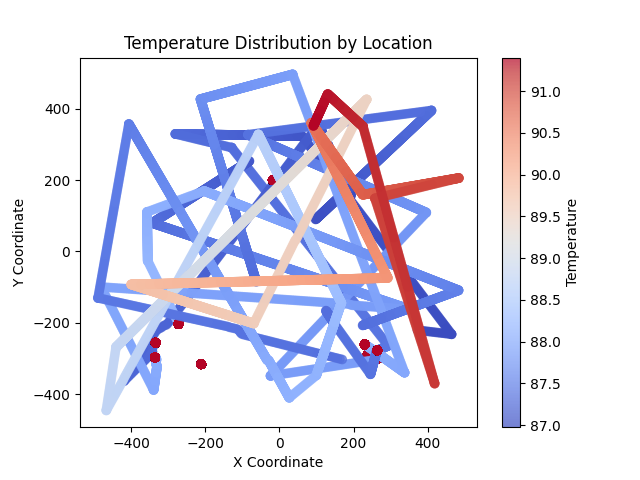
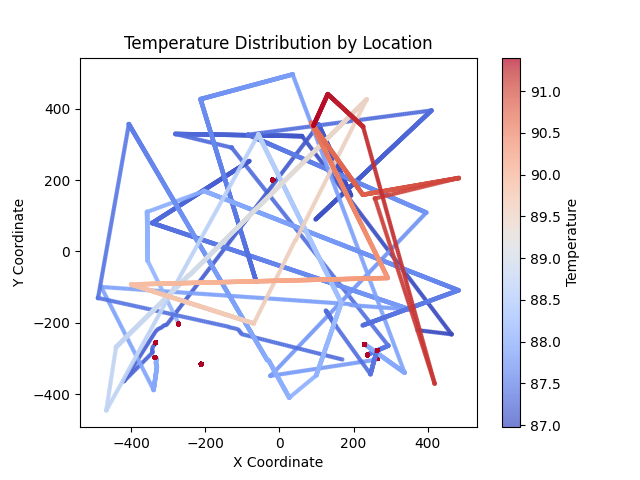
more changes

Changed region(s): [[0.125, 0.125, 0.7188, 0.875], [0.3125, 0.75, 0.3438, 0.7812]]

diff --git a/lab5/analyze_logs.py b/lab5/analyze_logs.py
@@ -3,7 +3,7 @@
 import numpy as np
 import pandas as pd
 import matplotlib.pyplot as plt
-import seaborn as sns
+from scipy.spatial import cKDTree
 
 INPUT_CSV_FILEPATH = "logs_output.csv"
 VISUALS_DIR = "./visualizations/"
@@ -20,10 +20,10 @@ if __name__ == "__main__":
 
     # Select only the zebras
     zebra_mask = df_logs["animal_id"].str.contains("Zebra")
-    df_logs = df_logs[zebra_mask]
+    df_logs_zebra = df_logs[zebra_mask]
 
     # Group the data by animal_id
-    groups = df_logs.groupby("animal_id")
+    groups_zebra = df_logs_zebra.groupby("animal_id")
 
     # Initialize an empty DataFrame to store combined data
     combined_df = pd.DataFrame()
@@ -32,7 +32,7 @@ if __name__ == "__main__":
     ##########################################################################################################################################################################
     # CDF plot
     ##########################################################################################################################################################################
-    for name, group in groups:
+    for name, group in groups_zebra:
 
         # Sort by timestamp
         group = group.sort_values("timestamp", ascending=True)
@@ -74,7 +74,7 @@ if __name__ == "__main__":
     ax = fig.add_subplot(111, projection="3d")
 
     # Plot the longitude, latitude, and timestamp coordinates for each animal_id
-    for name, group in groups:
+    for name, group in groups_zebra:
         ax.scatter(group["longitude"], group["latitude"], group["timestamp"], label=name)
 
     # Add axis labels and a legend
@@ -93,7 +93,7 @@ if __name__ == "__main__":
     ##########################################################################################################################################################################
 
     fig, ax = plt.subplots()
-    for name, group in groups:
+    for name, group in groups_zebra:
         # Time difference between consecutive rows now the data are sorted
         group["time_diff_sec"] = group["timestamp"].diff()
         group["latitude_shift"] = group["latitude"].shift(1)
@@ -120,7 +120,7 @@ if __name__ == "__main__":
     fig, ax = plt.subplots()
 
     # Plot the data using the temperature as a color map
-    scatter = ax.scatter(df_logs["longitude"], df_logs["latitude"], c=df_logs["temperature"], cmap="coolwarm", alpha=0.7)
+    scatter = ax.scatter(df_logs_zebra["longitude"], df_logs_zebra["latitude"], c=df_logs_zebra["temperature"], cmap="coolwarm", alpha=0.7, s=5)
 
     # Add a color bar to show the temperature scale
     cbar = plt.colorbar(scatter, ax=ax)
@@ -131,4 +131,50 @@ if __name__ == "__main__":
     plt.title("Temperature Distribution by Location")
     # Save the plot
     plt.savefig(f"{VISUALS_DIR}zebra_temp_location.png")
+    plt.close()
+
+    ##########################################################################################################################################################################
+    # Location All Animals
+    ##########################################################################################################################################################################
+
+    # Specify the minimum distance between points
+    min_distance = 1.03
+
+    # Convert "animal" column to categorical variable
+    df_logs["animal"] = pd.Categorical(df_logs["animal"])
+
+    fig = plt.figure()
+    ax = fig.add_subplot(111, projection="3d")
+
+    # Group the data by animal type
+    groups_all = df_logs.groupby("animal")
+
+    # Plot the longitude, latitude, and timestamp coordinates for each animal_id
+    for name, group in groups_all:
+        # Create a cKDTree of the points for the current animal
+        tree = cKDTree(group[["longitude", "latitude", "timestamp"]])
+
+        # Query the distance between each point and its nearest neighbors
+        distances, _ = tree.query(group[["longitude", "latitude", "timestamp"]], k=2)
+
+        # Only plot points that are at least min_distance away from their nearest neighbor
+        mask = distances[:, 1] <= min_distance
+
+        # Only plot points that are at least min_distance away from animals of a different type
+        for other_name, other_group in groups_all:
+            if other_name != name:
+                other_tree = cKDTree(other_group[["longitude", "latitude", "timestamp"]])
+                other_distances, _ = other_tree.query(group.loc[mask, ["longitude", "latitude", "timestamp"]])
+                mask[mask] &= other_distances >= min_distance
+        ax.scatter(group.loc[mask, "longitude"], group.loc[mask, "latitude"], group.loc[mask, "timestamp"], label=name, s=3)
+
+    # Add axis labels and a legend
+    ax.set_xlabel("X Coordinate")
+    ax.set_ylabel("Y Coordinate")
+    ax.set_zlabel("Timestamp")
+    ax.legend(bbox_to_anchor=(-0.4, 1), loc='upper left', borderaxespad=0)
+
+    plt.title("Animal Locations When 1.3 Units Away from Another Animal")
+    # Save the plot
+    plt.savefig(f"{VISUALS_DIR}all_animal_coordinates.png")
     plt.close()

diff --git a/lab5/arduino_networking.cpp b/lab5/arduino_networking.cpp
@@ -1,0 +1,53 @@
+PulseOximeter pox;
+Adafruit_GPS GPS;
+
+// Declare vars
+int temperaturePin = A1;
+int pulsoxPin = 2;
+int ledPin = 3;
+int humidityPin = 7;
+int networkPin = 0;
+long arduinoID = random();
+string output_str;
+
+// Setup function with pins
+void setup() {
+  pinMode(pulsoxPin, INPUT);
+  pinMode(ledPin, OUTPUT);
+  pinMode(temperaturePin, INPUT);
+  pinMode(humidityPin, INPUT);
+  pinMode(0, OUTPUT);
+  Serial.begin(9600);
+}
+void loop() {
+    // Read data if available
+    if (Serial.available() > 0) {
+        // Humidity Data
+        float h = digitalRead(humidityPin);
+        // Temperature Data
+        float temp = analogRead(temperaturePin) / 1023.0 * 5.0 * 100.0;
+        // GPS data
+        string gpsResult = GPS.read();
+        output_str = "|| Arduino ID: " + to_string(arduinoID) + " | Humidity: " + to_string(h) + " | Temp: " + to_string(temp) + " | GPS: " + gpsResult;
+        // PulseOximiter
+        if (pox.begin()) {
+            string spO2_res = pox.getSpO2();
+            string hb_res = pox.getHeartRate();
+            output_str += " | sp02: " + spO2_res + " | Heart Rate: " + hb_res;
+        } 
+        digitalWrite(ledPin, HIGH);
+        
+    } else {
+        digitalWrite(ledPin, LOW);
+        //Serial.println("no_data");
+    }
+    // Send message to other Arduino
+    Serial.sendMessage(networkPin, output_str, to_string(9600));
+    // Print output
+    Serial.println("");
+    Serial.println("Printed by sender: " + output_str);
+    Serial.println("");
+    // delay
+    delay(1000);
+
+}

diff --git a/lab5/arduino.cpp b/lab5/arduino.cpp
@@ -1,0 +1,39 @@
+PulseOximeter pox;
+Adafruit_GPS GPS;
+void setup() {
+  pinMode(2, INPUT);
+  pinMode(3, OUTPUT);
+  pinMode(A1, INPUT);
+  // Humidity Sensor Input
+  pinMode(7, INPUT);
+  Serial.begin(9600);
+}
+void loop() {
+  if (Serial.available() > 0) {
+      if (pox.begin()) {
+          string spO2_res = pox.getSpO2();
+          string hb_res = pox.getHeartRate();
+          Serial.println("Oxygen percentage: " + spO2_res + "; Heart rate: " + hb_res);
+      }
+      digitalWrite(3, HIGH);
+  } else{
+      Serial.println("No data");
+      digitalWrite(3, LOW);
+  }
+  // GPS Data
+  if (Serial.available() > 0) {
+      string gpsResult = GPS.read();
+      Serial.println("GPS Data: " + gpsResult);
+  } else {
+      Serial.println("No data");
+  }
+  // Humidity Data
+  float h = digitalRead(7);
+  Serial.print("Humidity: ");
+  Serial.println(h);
+  // Temperature Data
+  float temp = analogRead(A1) / 1023.0 * 5.0 * 100.0;
+  Serial.println("temperature: " + to_string(temp));
+  Serial.println("");
+  delay(1000);
+}

diff --git a/lab5/arduino_receiver.cpp b/lab5/arduino_receiver.cpp
@@ -1,0 +1,13 @@
+void setup() { 
+	Serial.begin(9600);
+}
+
+void loop() { 
+	if (Serial.availableMessage() != 0){
+        string availMsg = Serial.readMessage();
+        Serial.println("");
+        Serial.println("##### Printed by receiver: " + availMsg + " #####");
+        Serial.println("");
+    }
+    delay(2000);
+}
